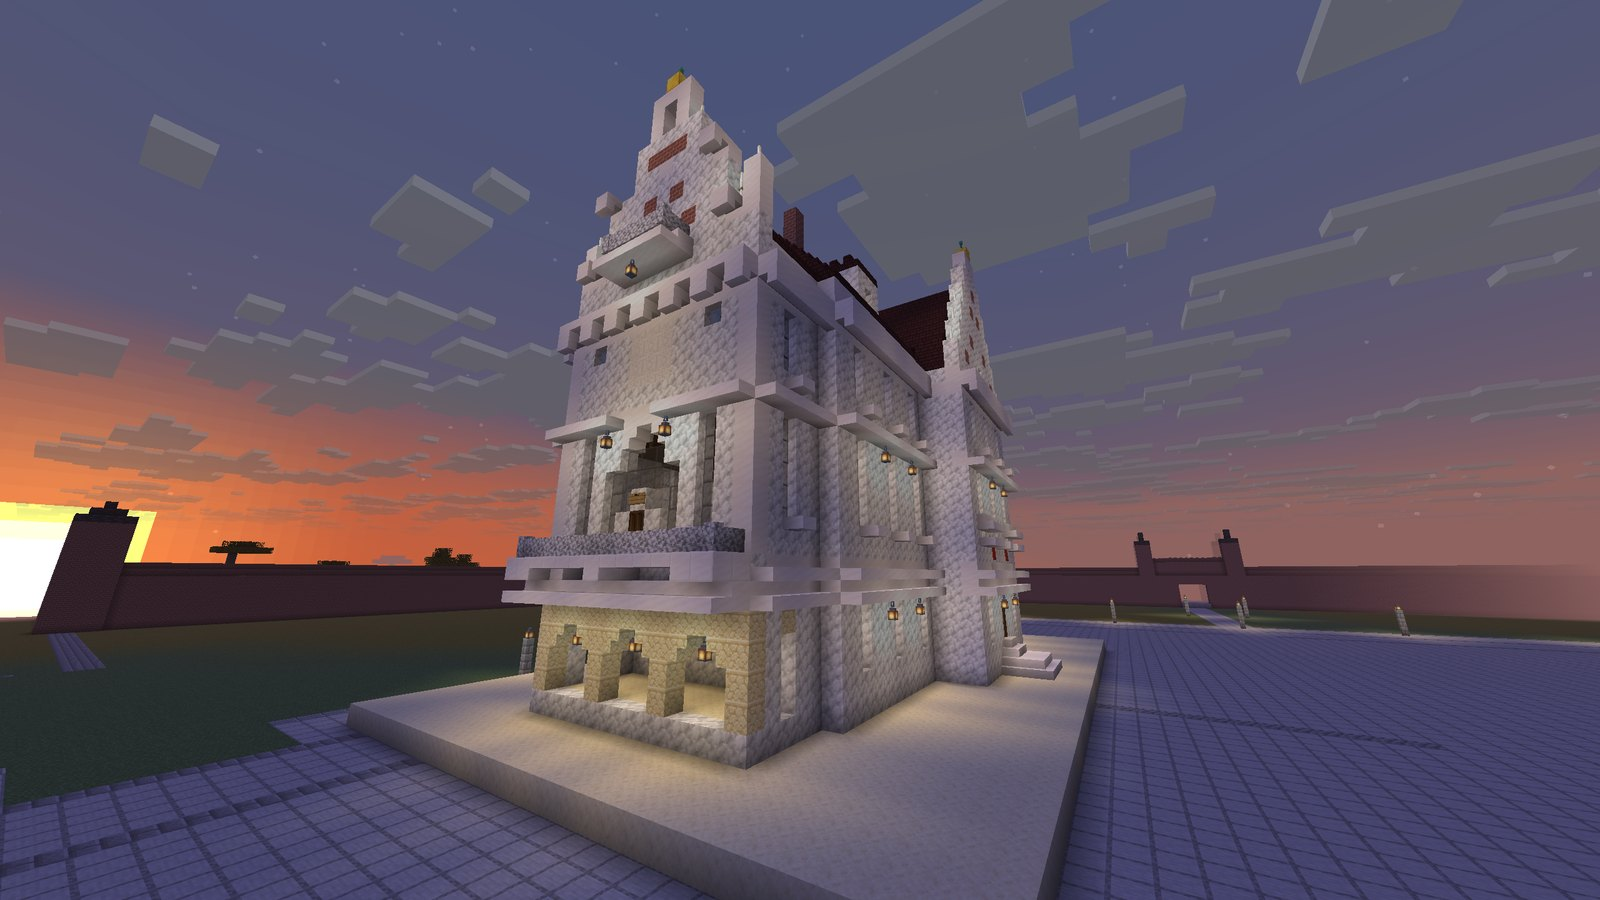
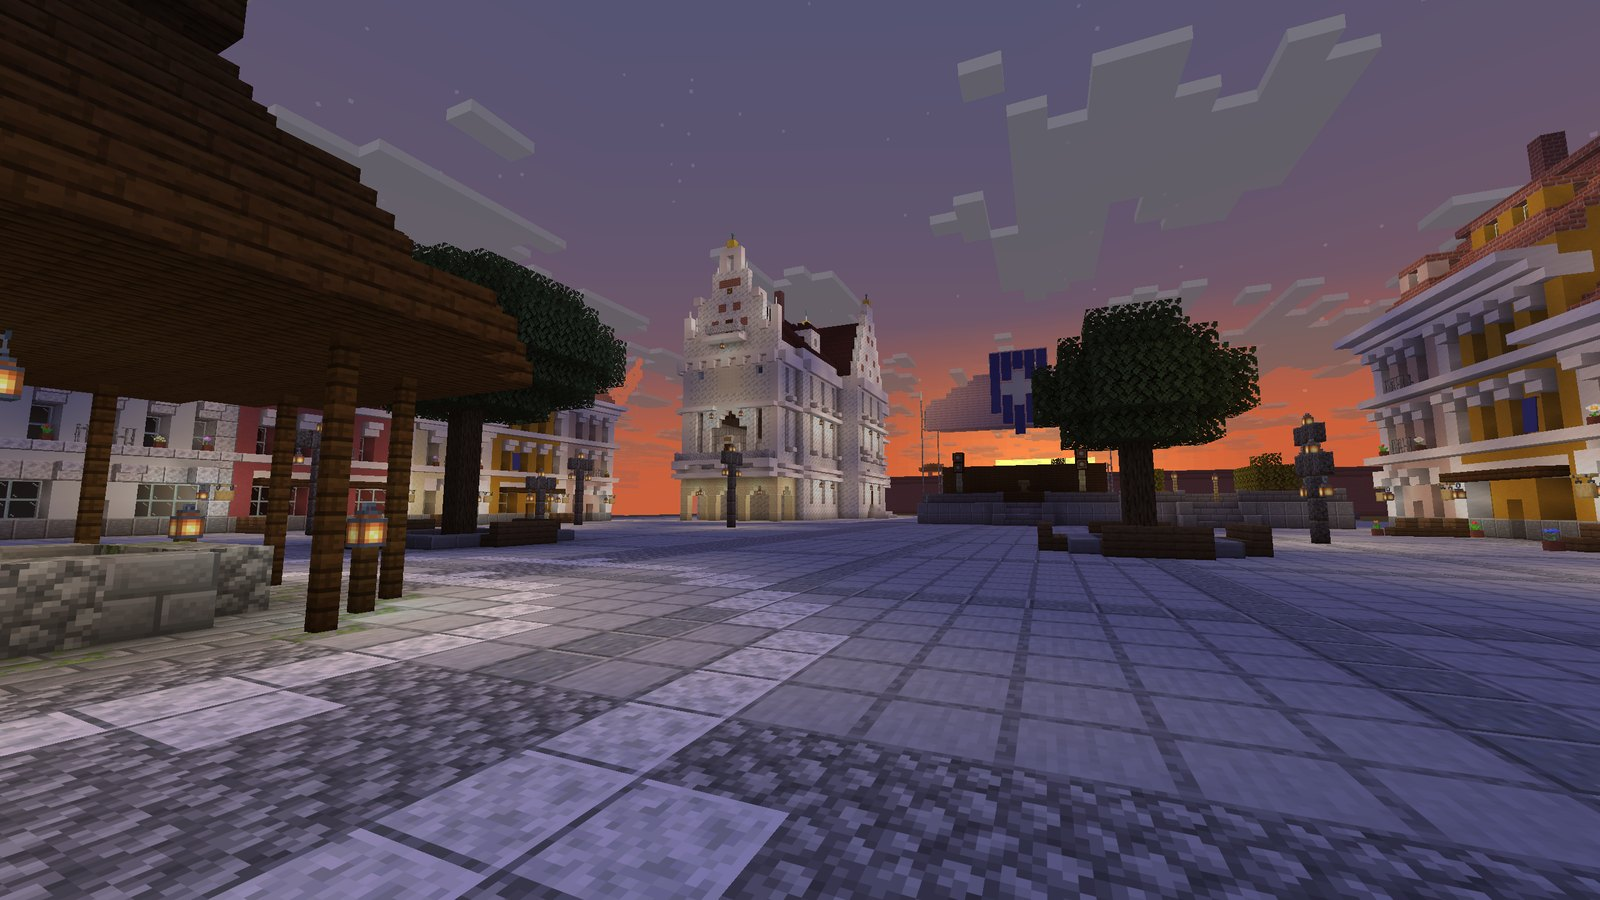
Nowe zdjecia: Rynek o zmierzchu jako tlo, estrada i scena noca w galerii

diff --git a/galeria.html b/galeria.html
@@ -378,8 +378,8 @@
 <h1>Galeria</h1>
 <p class="metryka">Wszystko na zdjęciach zbudowaliśmy sami, blok po bloku.</p>
 <div class="galeria">
-<figure tabindex="0" role="button" aria-label="Powiększ: Ratusz z Rzeszowa" data-tytul="Ratusz z Rzeszowa" data-opis="Nasza własna budowla, postawiona z proporcji odczytanych ze zdjęć prawdziwego ratusza. O zmierzchu widać, że okna świecą — w środku są piętra, strych i zegar w szczycie."><img src="galeria/01-ratusz-rynek.jpg" alt="Ratusz z Rzeszowa" loading="lazy"><figcaption><b>Ratusz z Rzeszowa</b>Nasza własna budowla, postawiona z proporcji odczytanych ze zdjęć prawdziwego ratusza. O zmierzchu widać, że okna świecą — w środku są piętra, strych i zegar w szczycie.</figcaption></figure>
-<figure tabindex="0" role="button" aria-label="Powiększ: Zamek na Placu Zamkowym" data-tytul="Zamek na Placu Zamkowym" data-opis="Pierwszy kadr każdego nowego gracza. Tu stajesz po wejściu na serwer, z wieżą zegarową na wprost."><img src="galeria/02-zamek-plac-zamkowy.jpg" alt="Zamek na Placu Zamkowym" loading="lazy"><figcaption><b>Zamek na Placu Zamkowym</b>Pierwszy kadr każdego nowego gracza. Tu stajesz po wejściu na serwer, z wieżą zegarową na wprost.</figcaption></figure>
+<figure tabindex="0" role="button" aria-label="Powiększ: Rynek o zmierzchu" data-tytul="Rynek o zmierzchu" data-opis="Widok od studni: ratusz z Rzeszowa, estrada i pierzeje kamienic. Plac ma wymiary i układ prawdziwego rzeszowskiego Rynku — odczytane z mapy, nie zgadywane."><img src="galeria/01-ratusz-rynek.jpg" alt="Rynek o zmierzchu" loading="lazy"><figcaption><b>Rynek o zmierzchu</b>Widok od studni: ratusz z Rzeszowa, estrada i pierzeje kamienic. Plac ma wymiary i układ prawdziwego rzeszowskiego Rynku — odczytane z mapy, nie zgadywane.</figcaption></figure>
+<figure tabindex="0" role="button" aria-label="Powiększ: Zamek na Placu Zamkowym" data-tytul="Zamek na Placu Zamkowym" data-opis="Zamek Królewski z wieżą zegarową, kilka kroków na południe od Rynku."><img src="galeria/02-zamek-plac-zamkowy.jpg" alt="Zamek na Placu Zamkowym" loading="lazy"><figcaption><b>Zamek na Placu Zamkowym</b>Zamek Królewski z wieżą zegarową, kilka kroków na południe od Rynku.</figcaption></figure>
 <figure tabindex="0" role="button" aria-label="Powiększ: Kamienice" data-tytul="Kamienice" data-opis="Pierzeja kamienic z własnego generatora: wykusze, balkony, okiennice i gzymsy, każda inna."><img src="galeria/03-kamienice.jpg" alt="Kamienice" loading="lazy"><figcaption><b>Kamienice</b>Pierzeja kamienic z własnego generatora: wykusze, balkony, okiennice i gzymsy, każda inna.</figcaption></figure>
 <figure tabindex="0" role="button" aria-label="Powiększ: Twierdza" data-tytul="Twierdza" data-opis="Pokaz wszystkich elementów muru miejskiego naraz: cokół, blanki, przypory, wieżyczki i brama z machikułami."><img src="galeria/04-twierdza.jpg" alt="Twierdza" loading="lazy"><figcaption><b>Twierdza</b>Pokaz wszystkich elementów muru miejskiego naraz: cokół, blanki, przypory, wieżyczki i brama z machikułami.</figcaption></figure>
 <figure tabindex="0" role="button" aria-label="Powiększ: Dziedziniec twierdzy" data-tytul="Dziedziniec twierdzy" data-opis="W środku studnia i latarnie tam, gdzie chodzi się nocą. Na murach patyna z mchu."><img src="galeria/05-dziedziniec-twierdzy.jpg" alt="Dziedziniec twierdzy" loading="lazy"><figcaption><b>Dziedziniec twierdzy</b>W środku studnia i latarnie tam, gdzie chodzi się nocą. Na murach patyna z mchu.</figcaption></figure>
@@ -389,6 +389,10 @@
 <figure tabindex="0" role="button" aria-label="Powiększ: Tower Bridge nocą" data-tytul="Tower Bridge nocą" data-opis="Ten sam most po zachodzie słońca. Latarnie i okna wież świecą, a woda pod nim jest czarna — nocne zdjęcie jest najlepszym sprawdzeniem, czy budowla ma własne światło."><img src="galeria/09-tower-bridge-noca.jpg" alt="Tower Bridge nocą" loading="lazy"><figcaption><b>Tower Bridge nocą</b>Ten sam most po zachodzie słońca. Latarnie i okna wież świecą, a woda pod nim jest czarna — nocne zdjęcie jest najlepszym sprawdzeniem, czy budowla ma własne światło.</figcaption></figure>
 <figure tabindex="0" role="button" aria-label="Powiększ: Widok z bramy na most" data-tytul="Widok z bramy na most" data-opis="Kadr z wnętrza przejazdu bramnego. Ciemny tunel, a na końcu rozświetlony Tower Bridge — tak wygląda wyjście z miasta w stronę rzeki."><img src="galeria/10-brama-tunel.jpg" alt="Widok z bramy na most" loading="lazy"><figcaption><b>Widok z bramy na most</b>Kadr z wnętrza przejazdu bramnego. Ciemny tunel, a na końcu rozświetlony Tower Bridge — tak wygląda wyjście z miasta w stronę rzeki.</figcaption></figure>
 <figure tabindex="0" role="button" aria-label="Powiększ: Brama o zmierzchu" data-tytul="Brama o zmierzchu" data-opis="Ta sama brama po zachodzie słońca. Latarnie na słupkach zapalają się same, a zielone iskry pokazują, że przejście jest otwarte."><img src="galeria/11-brama-o-zmierzchu.jpg" alt="Brama o zmierzchu" loading="lazy"><figcaption><b>Brama o zmierzchu</b>Ta sama brama po zachodzie słońca. Latarnie na słupkach zapalają się same, a zielone iskry pokazują, że przejście jest otwarte.</figcaption></figure>
+<figure tabindex="0" role="button" aria-label="Powiększ: Rynek w dzień" data-tytul="Rynek w dzień" data-opis="Dąb rośnie tam, gdzie rośnie prawdziwy, pod nim ławki. Z lewej ratusz, z prawej studnia z dzwonkiem i kratą nad szybem."><img src="galeria/12-rynek-w-dzien.jpg" alt="Rynek w dzień" loading="lazy"><figcaption><b>Rynek w dzień</b>Dąb rośnie tam, gdzie rośnie prawdziwy, pod nim ławki. Z lewej ratusz, z prawej studnia z dzwonkiem i kratą nad szybem.</figcaption></figure>
+<figure tabindex="0" role="button" aria-label="Powiększ: Pierzeje kamienic" data-tytul="Pierzeje kamienic" data-opis="Kamienice wokół Rynku: każda w innym kolorze, z okiennicami, kwiatami na parapetach i światłem w oknach po zmroku."><img src="galeria/13-pierzeje-o-zmierzchu.jpg" alt="Pierzeje kamienic" loading="lazy"><figcaption><b>Pierzeje kamienic</b>Kamienice wokół Rynku: każda w innym kolorze, z okiennicami, kwiatami na parapetach i światłem w oknach po zmroku.</figcaption></figure>
+<figure tabindex="0" role="button" aria-label="Powiększ: Estrada na Rynku 26" data-tytul="Estrada na Rynku 26" data-opis="Scena stoi na dachu budynku, w którym jest wejście do podziemi — tak samo jak w Rzeszowie. Dach z wiśniowych desek i baner powstały ręcznie w grze."><img src="galeria/14-estrada-rynek-26.jpg" alt="Estrada na Rynku 26" loading="lazy"><figcaption><b>Estrada na Rynku 26</b>Scena stoi na dachu budynku, w którym jest wejście do podziemi — tak samo jak w Rzeszowie. Dach z wiśniowych desek i baner powstały ręcznie w grze.</figcaption></figure>
+<figure tabindex="0" role="button" aria-label="Powiększ: Scena nocą" data-tytul="Scena nocą" data-opis="Cztery kolorowe snopy światła z beaconów i lampy mrugające pod dachem. Wszystko napędza zegar z redstone ukryty w więźbie."><img src="galeria/15-scena-noca.jpg" alt="Scena nocą" loading="lazy"><figcaption><b>Scena nocą</b>Cztery kolorowe snopy światła z beaconów i lampy mrugające pod dachem. Wszystko napędza zegar z redstone ukryty w więźbie.</figcaption></figure>
 </div>
 <dialog class="podglad" id="podglad" aria-label="Powiększone zdjęcie">
   <button class="zamknij" type="button" data-akcja="zamknij">Zamknij ✕</button>

diff --git a/index.html b/index.html
@@ -409,7 +409,7 @@
     </p>
 <!-- WSPOLNE:ZDJECIA -->
 <div class="zdjecia">
-<a href="galeria.html"><img src="galeria/01-ratusz-rynek.jpg" alt="Ratusz z Rzeszowa" loading="lazy"><span>Ratusz z Rzeszowa</span></a>
+<a href="galeria.html"><img src="galeria/01-ratusz-rynek.jpg" alt="Rynek o zmierzchu" loading="lazy"><span>Rynek o zmierzchu</span></a>
 <a href="galeria.html"><img src="galeria/02-zamek-plac-zamkowy.jpg" alt="Zamek na Placu Zamkowym" loading="lazy"><span>Zamek na Placu Zamkowym</span></a>
 <a href="galeria.html"><img src="galeria/03-kamienice.jpg" alt="Kamienice" loading="lazy"><span>Kamienice</span></a>
 <a href="galeria.html"><img src="galeria/04-twierdza.jpg" alt="Twierdza" loading="lazy"><span>Twierdza</span></a>
